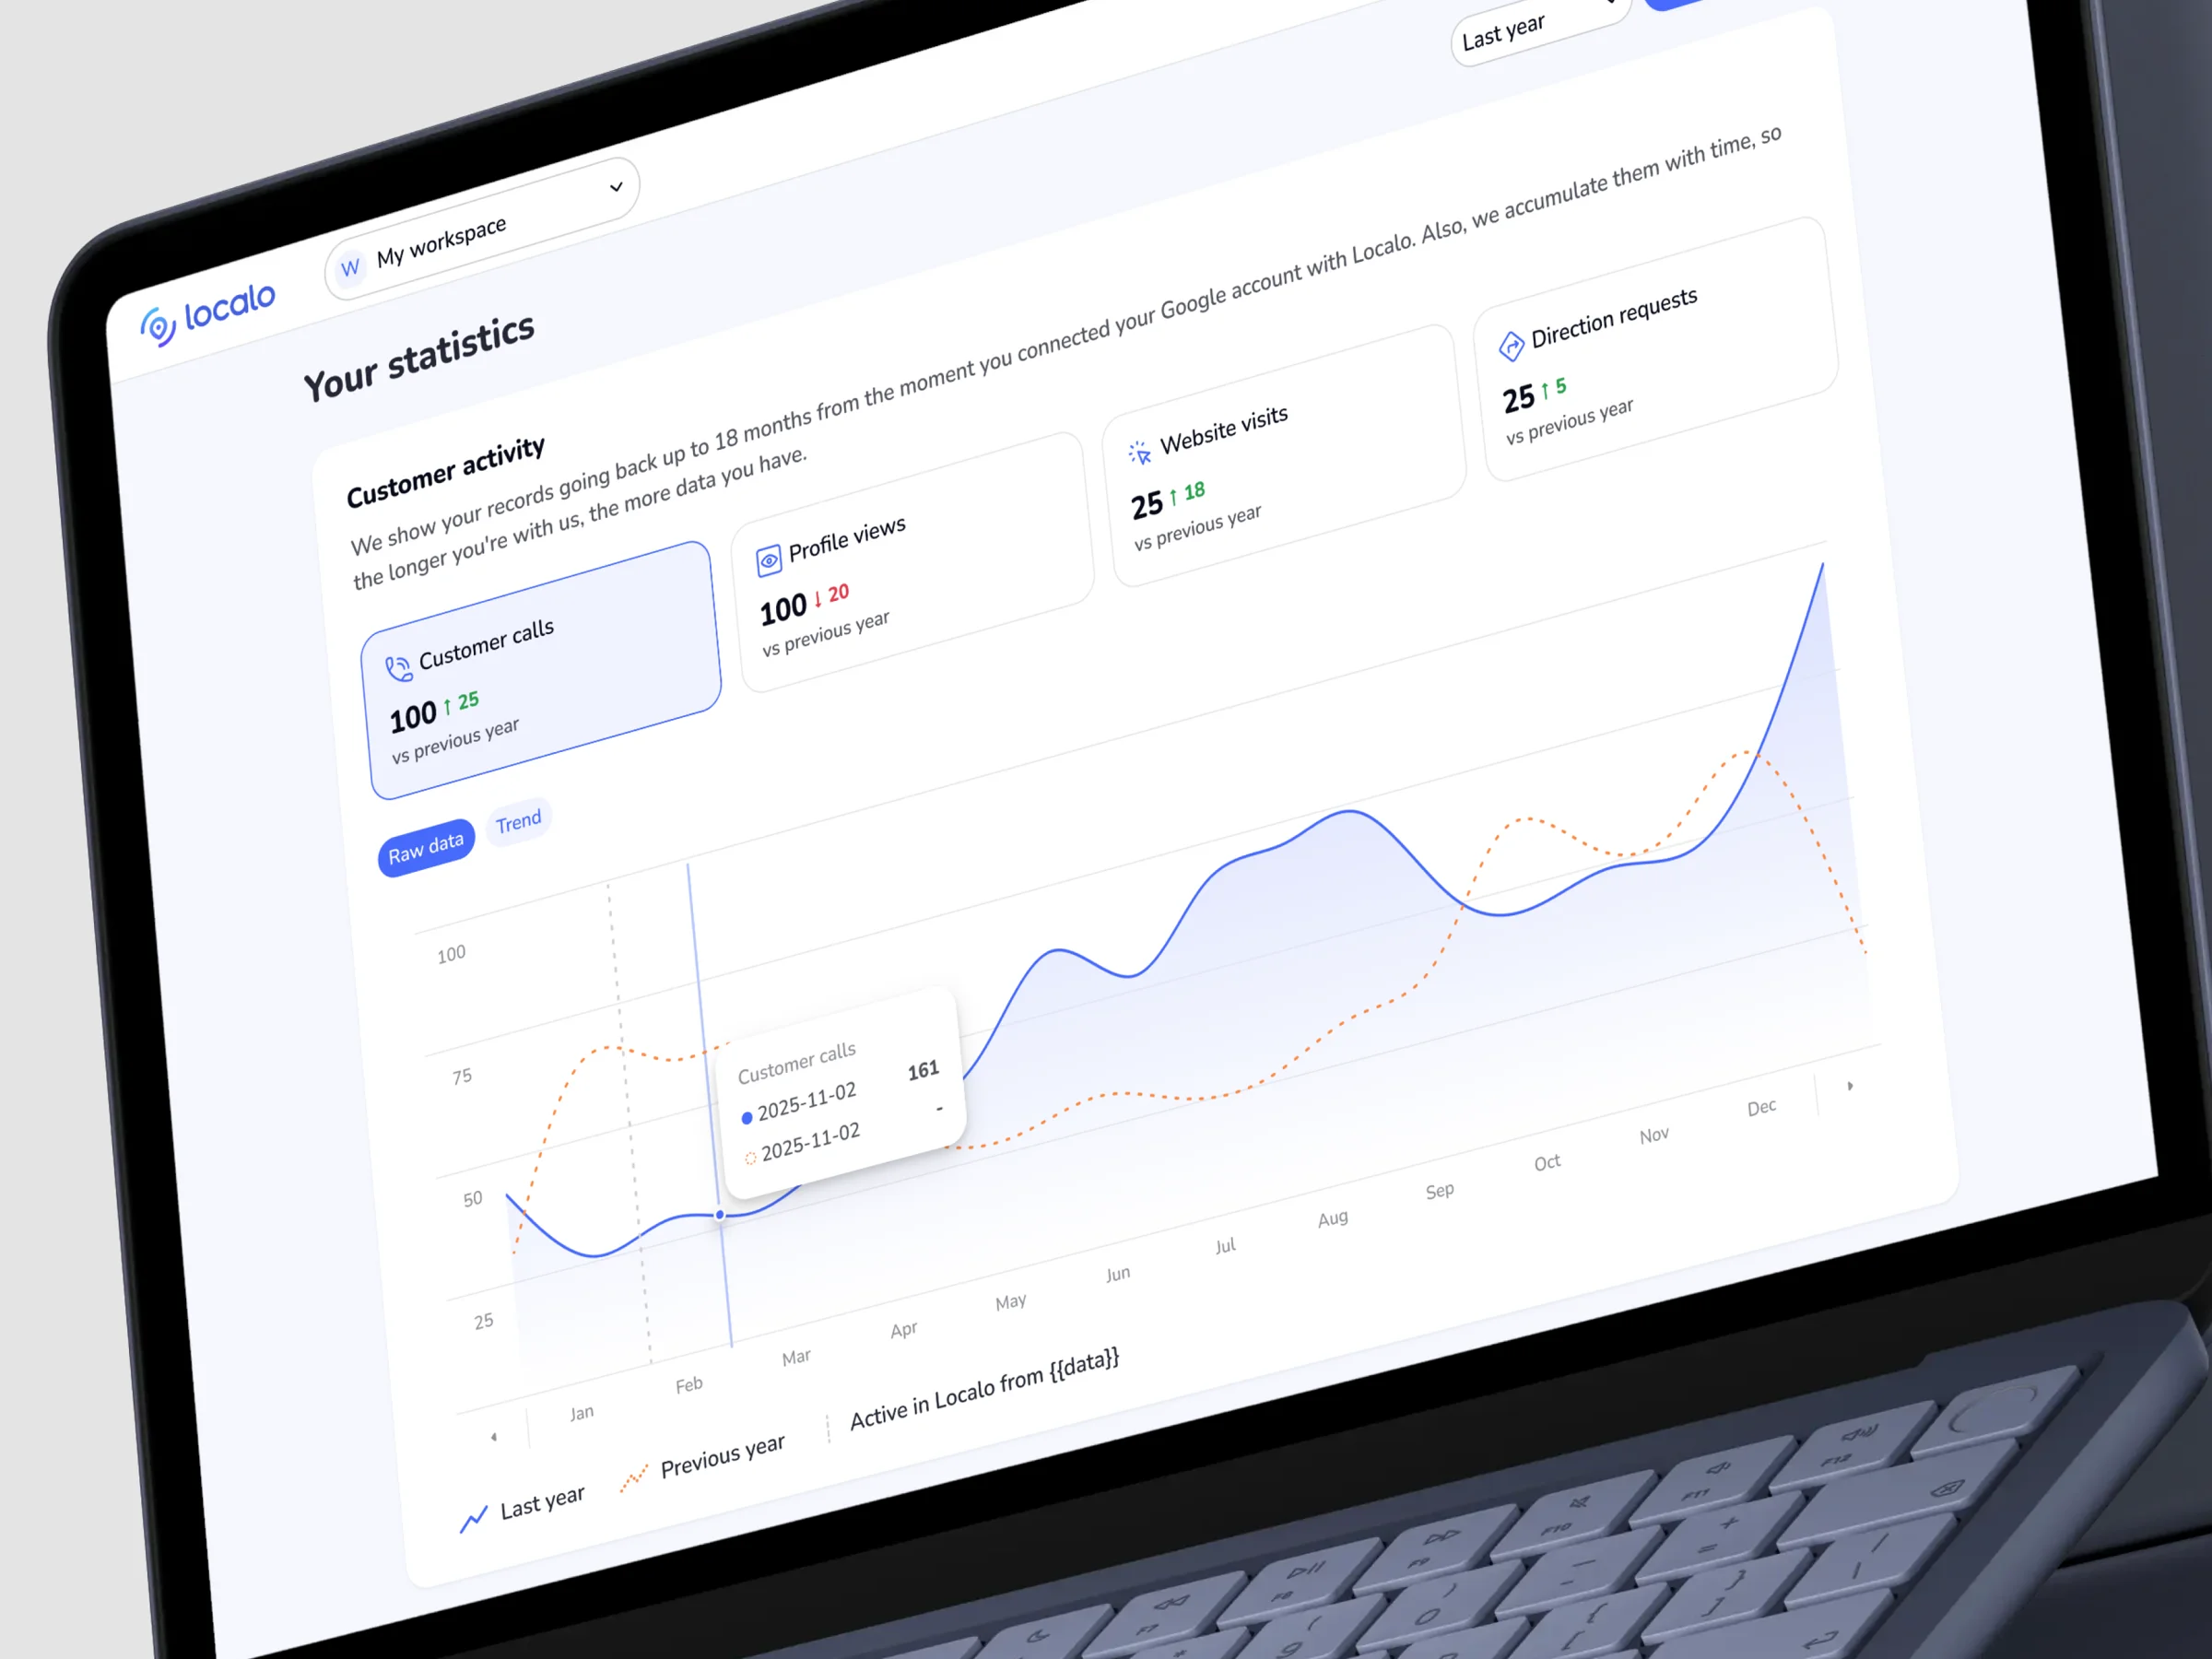
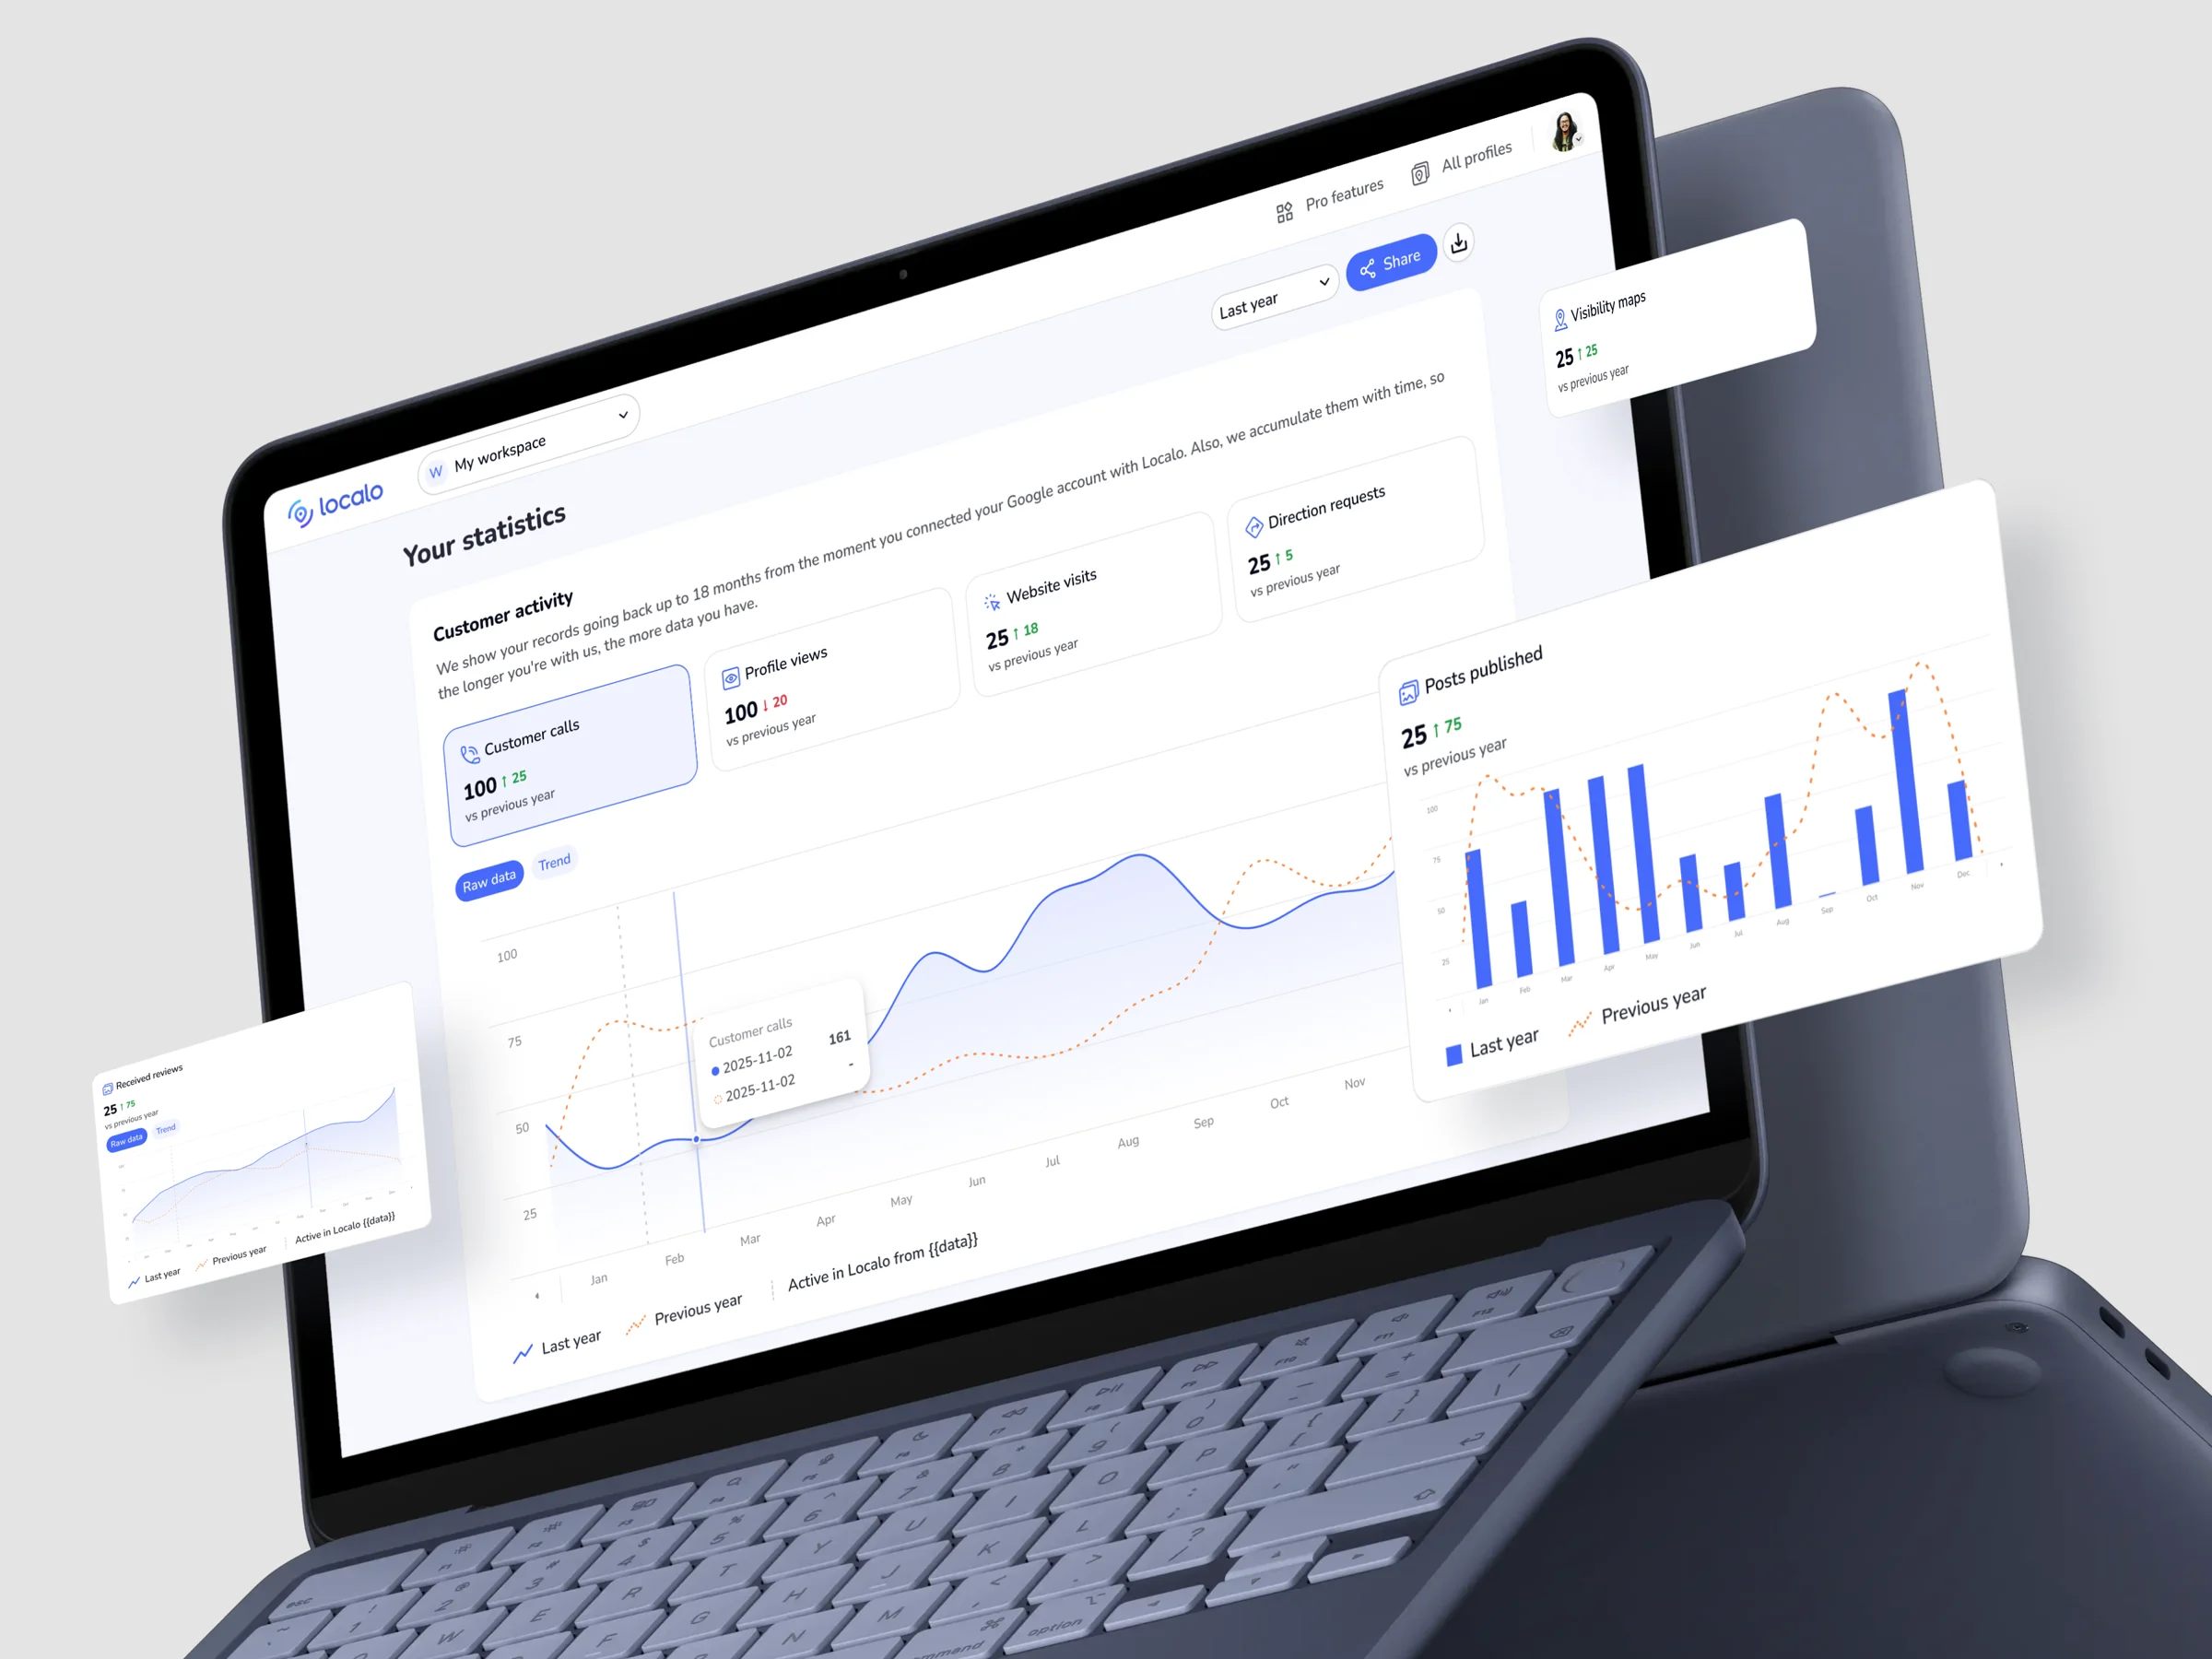
feat: add hover video back to Stats Redesign, re-cut to skip static intro
Video's opening frames matched the static cover pose (slow ambient rotation
loop), so the recut file now starts mid-rotation instead of at 0s, with a
dedicated poster frame from the recut clip instead of reusing the cover image.

diff --git a/src/components/SimpleProjectPage.tsx b/src/components/SimpleProjectPage.tsx
@@ -88,7 +88,7 @@ function HoverVideoCover({ src, poster }: { src: string; poster?: string }) {
       muted
       loop
       playsInline
-      preload="metadata"
+      preload="auto"
       className="w-full h-full object-cover"
       onMouseEnter={() => ref.current?.play()}
       onMouseLeave={() => {
@@ -106,7 +106,12 @@ export interface ProjectImage {
   alt: string
 }
 
-export type ProjectImageRow = ProjectImage | ProjectImage[]
+export interface ProjectVideo {
+  video: string
+  poster?: string
+}
+
+export type ProjectImageRow = ProjectImage | ProjectImage[] | ProjectVideo
 
 export interface ProjectSection {
   title?: string
@@ -185,6 +190,10 @@ export function SimpleProjectPage({ embedded = false, copy, backHref }: { embedd
                     {row.map((image) => (
                       <img key={image.img} src={image.img} alt={image.alt} className="w-full h-auto block rounded-2xl border border-slate-200" />
                     ))}
+                  </Reveal>
+                ) : "video" in row ? (
+                  <Reveal key={row.video} className="rounded-2xl overflow-hidden border border-slate-200" style={{ aspectRatio: "4/3" }}>
+                    <HoverVideoCover src={row.video} poster={row.poster} />
                   </Reveal>
                 ) : (
                   <Reveal key={row.img}>

diff --git a/src/copy/stats.copy.tsx b/src/copy/stats.copy.tsx
@@ -3,12 +3,11 @@ export const copy = {
     title: <>Stats Redesign. Dane po <span style={{ color: "#466AFA" }}>ludzku</span>.</>,
     tags: ["Dashboard", "Wizualizacja danych", "Product Design", "SaaS"],
     cover: { img: "/stats-cover.webp", alt: "Stats Redesign" },
-    coverVideo: { src: "/stats-macbook.webm", poster: "/stats-cover.webp" },
     caption: "Przeprojektowałam kluczowy ekran statystyk — nowy układ, wykresy zamiast surowych liczb. Teraz widzi go 80%+ klientów, którzy przechodzą na płatny plan.",
     sections: [
       {
         images: [
-          { img: "/stats-cover.webp", alt: "Stats Redesign" },
+          { video: "/stats-macbook.webm", poster: "/stats-macbook-poster.webp" },
         ],
       },
       {
@@ -26,12 +25,11 @@ export const copy = {
     title: <>Stats Redesign. Data, made <span style={{ color: "#466AFA" }}>human</span>.</>,
     tags: ["Dashboard", "Data Visualization", "Product Design", "SaaS"],
     cover: { img: "/stats-cover.webp", alt: "Stats Redesign" },
-    coverVideo: { src: "/stats-macbook.webm", poster: "/stats-cover.webp" },
     caption: "Redesigned the core stats screen — new layout, charts instead of raw numbers. Now seen by 80%+ of clients who go on to convert to a paid plan.",
     sections: [
       {
         images: [
-          { img: "/stats-cover.webp", alt: "Stats Redesign" },
+          { video: "/stats-macbook.webm", poster: "/stats-macbook-poster.webp" },
         ],
       },
       {

diff --git a/src/components/sections/Projects.tsx b/src/components/sections/Projects.tsx
@@ -55,7 +55,7 @@ function HoverVideo({ src, poster }: { src: string; poster?: string }) {
       muted
       loop
       playsInline
-      preload="metadata"
+      preload="auto"
       className="w-full h-full object-cover transition-transform duration-500 group-hover:scale-105"
       onMouseEnter={() => ref.current?.play()}
       onMouseLeave={() => {

diff --git a/src/data/projects.ts b/src/data/projects.ts
@@ -75,7 +75,6 @@ export const projects: Project[] = [
     color: "from-[#466AFA] to-indigo-500",
     bg: "bg-slate-50",
     image: "/stats-cover.webp",
-    video: "/stats-macbook.webm",
     href: "/ui/stats",
   },
   {